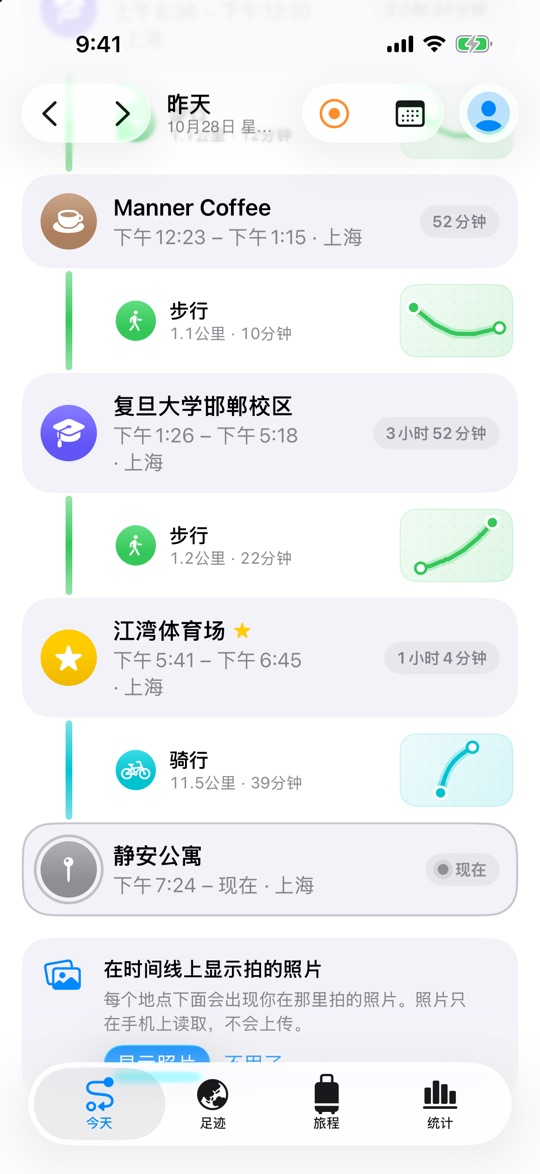
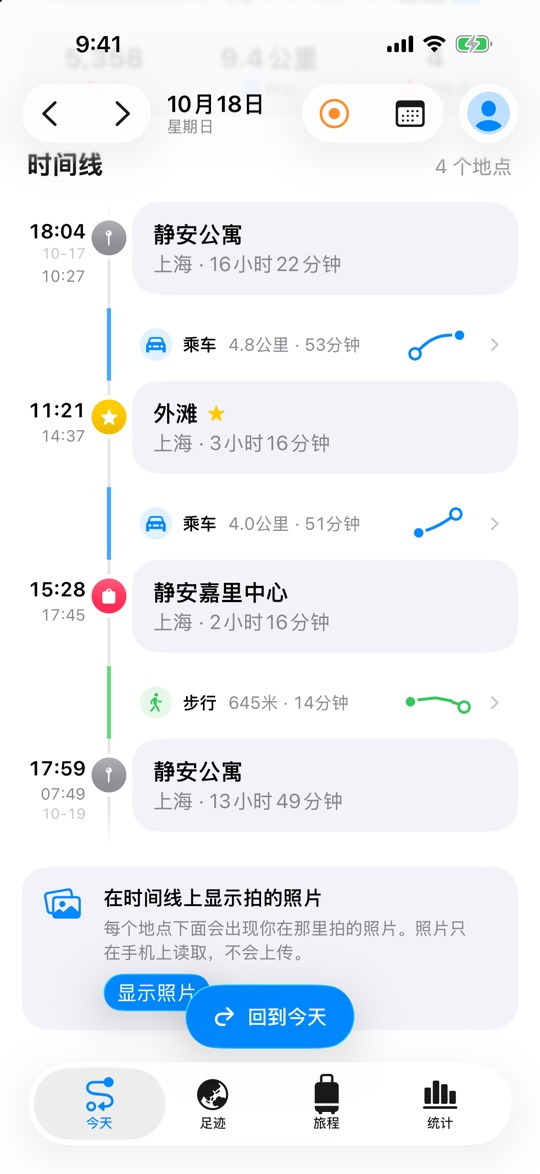
The README on every road, the four passports, the visa wallet and parallel footprints
New screenshots of the timeline, the night map of routes and the visa
wallet, made with specimen visas.

diff --git a/RecordPath/Features/Visas/VisaWalletView.swift b/RecordPath/Features/Visas/VisaWalletView.swift
@@ -186,7 +186,7 @@ struct VisaWalletView: View {
     }
 
     /// How much of each stacked card shows: its header strip.
-    private static let strip: CGFloat = 41
+    private static let strip: CGFloat = 38
 
     private func startScan() {
         if LiveVisaScanner.isAvailable { scanning = true } else { choosingPhoto = true }

diff --git a/README_en.md b/README_en.md
@@ -39,6 +39,8 @@
   <a href="#-trips">Trips</a> ·
   <a href="#-the-world-youve-seen">Places</a> ·
   <a href="#-passport-and-stamps">Passport and stamps</a> ·
+  <a href="#-visa-wallet">Visa wallet</a> ·
+  <a href="#-parallel-footprints">Parallel footprints</a> ·
   <a href="#-places-for-a-lifetime">Places for a lifetime</a> ·
   <a href="#-moments-that-make-you-pause">Moments</a> ·
   <a href="#-apple-watch">Apple Watch</a> ·
@@ -62,7 +64,7 @@
 | **How you got there** | The iPhone's motion coprocessor and your speed tell walking, running, cycling, driving and flying apart, each drawn in its own colour. A subway ride with no signal is filled in from the phone's own motion history and drawn dashed. |
 | **Where you were** | A few minutes in one place becomes a stay, named as the shop, sight, city and country it is. |
 | **Easy on the battery** | Location sleeps while the phone is still. After ten minutes in one place GPS turns off entirely, replaced by a 150 m geofence that wakes it when you leave. |
-| **Timeline** | Each day reads stay → journey → stay, every place with the photos you took there. |
+| **Timeline** | Each day runs down a fine line: the times in the margin, each place a node on it with the photos you took there, and each journey a single line saying how you went, how far and how long, with the route traced beside it. Turn on Past Routes to see the roads you've taken around there on other days, beneath today's. |
 
 **Bring back the past from Photos**: the places your photos and videos were taken fill in where you went before the app existed. New users can do it in the last step of onboarding or from the Trips tab, and the passport opens as the years of stamps land. Run it again any time from Settings; only new places are added. Everything is read on the phone; photos are never uploaded.
 
@@ -86,10 +88,12 @@
 - **Countries and regions**: filter by continent (All · Asia · Europe…), search, and sort by days, most recent or earliest, so a long list never means endless scrolling.
 - **Country pages**: the country outlined (the app draws no borders for mainland China, Hong Kong, Macao or Taiwan), each city you visited a glow of light, then the country's entry stamps and every city's stamp.
 - **Every visit**: grouped as runs of days in one city. A long history shows a year at a time, with a twelve-month bar chart on top; tap a month to jump to it.
+- **Every road**: switch All Places to Routes and every road you've travelled lies on one night map. Streets you take every day glow brighter with each pass; a one-off detour is a faint stroke. Filter by year or by walking, cycling, driving and flying, with the distance and days totted up below. Years of tracks are drawn at three levels of detail, so the map still pans smoothly.
 
 <p align="center">
   <img src="docs/images/places.jpg" width="190" alt="Places">
   <img src="docs/images/country.jpg" width="190" alt="Country page">
+  <img src="docs/images/routes.jpg" width="190" alt="Every road">
 </p>
 
 ---
@@ -121,6 +125,35 @@ The places you've been aren't a number. They're stamps, pressed one by one into 
 | Keepsakes and sets | Gold foil | A line of light runs across it; a set's cities gather into its stamp |
 
 Stamps not yet earned are **blind-embossed**: paper-coloured, in relief, every character readable but uninked.
+
+**Four passports**: burgundy, navy, forest and midnight. Pick one the first time you open it: the cover's leather and gold or silver foil change together with the pages' paper and security print. Change it later in Settings; iCloud keeps every device the same.
+
+---
+
+## 🪪 Visa wallet
+
+<p align="center">
+  <img src="docs/images/visa-wallet.jpg" width="190" alt="Visa wallet">
+  <img src="docs/images/visa-detail.jpg" width="190" alt="A visa">
+</p>
+
+The visas in your passport, stacked like cards in Apple Wallet, each showing how many days it has left.
+
+- **Laid out like the real ones**: the US foil with its Issuing Post Name, Control Number and red visa number over a bridge; the Schengen sticker's VALID FOR and DURATION OF STAY; Japan's bilingual 査証 VISA; and, for Australia and New Zealand, which put no label in the passport, a grant notice. No seals, emblems or security designs are copied, and every card carries a faint Waytrace mark.
+- **Point and it's read**: aim the camera at a visa page and its country, type, entries, length of stay and dates are read live, with a torch if you need it. The two machine-readable lines are corrected field by field and checked against their check digits for the number, birth date and expiry; a few agreeing frames settle it, and the name is checked against the one printed above. Or read it from a photo, or type it in.
+- **Leaf through it like Wallet**: tap a card and it rises to the top while the rest settle into a pile below; tilt the phone and it leans with a slow glint of light. Its back shows the days left as a ring and the details in a grid.
+- **The sums done for you**: the Schengen 90/180 rule worked out from the days you've actually been there; how many times each visa has been used and for how long; a warning when your passport has under six months left. Reminders 90, 30 and 7 days before anything runs out.
+- Visas live only in your own iCloud; reading happens on your iPhone, and nothing from the camera or your photos is saved or uploaded.
+
+---
+
+## 👥 Parallel footprints
+
+See where your footprints and a friend's overlap: **passing within the same hour**, **in the same city on the same day**, or **at the same place at different times**.
+
+- It appears only once you've invited each other and both agreed to share; no contacts, no groups, a friend is whoever accepted your invitation link.
+- Only a summary is shared: the rough area you were in each day (about 20 km) and the square of about 1 km you were in each hour. Nothing within 2 km of home, work or school, no place names, exact coordinates, routes or photos.
+- Shared through iCloud and compared on each phone; stop at any time and the summary is deleted from iCloud.
 
 ---
 
@@ -192,6 +225,9 @@ Waytrace **has no server of its own**. Your routes, places, trips and photos liv
 | Storage and sync | SwiftData with a CloudKit private database; stamps are worked out from stays rather than stored; seen-stamp state and postcards sync through iCloud key-value storage |
 | Background location | `CLLocationUpdate.liveUpdates` + `CLBackgroundActivitySession`; a `CLMonitor` geofence during long stays, with significant-change as a backstop |
 | Places | `MKReverseGeocodingRequest`, `MKLocalPointsOfInterestRequest`; WGS-84 → GCJ-02 for maps in China |
+| Every road | Each track simplified ahead of time at street, city and country detail, cached locally and read incrementally; drawn in layers of `MKMultiPolyline`, so overlaps brighten on their own |
+| Visa reading | VisionKit `DataScannerViewController` live, Vision for photos; ICAO 9303 machine lines corrected per field and verified by check digit, with multi-frame voting; Core Motion drives the cards' sheen |
+| Parallel footprints | CloudKit zone sharing (`CKShare`), summaries uploaded by day only when they change |
 | Motion and health | CoreMotion for how you travel, HealthKit for steps |
 | Apple Watch | watchOS SwiftUI app, WidgetKit complications, `HKWorkoutSession`, WatchConnectivity |
 | Live Activities | ActivityKit: Lock Screen, Dynamic Island, watch Smart Stack |
@@ -213,7 +249,8 @@ RecordPath/
 ├── Features/
 │   ├── Today/          Today, timeline, on this day
 │   ├── World/          Places, country pages, continent filter
-│   ├── Stamps/         Passport, stamp drawing, landing motion, keepsakes
+│   ├── Stamps/         Passport, passport styles, stamp drawing, landing motion, keepsakes
+│   ├── Visas/          Visa wallet, visa cards, live scanning
 │   ├── Trips/          Trips, postcards
 │   ├── Celebration/    Stamping ceremonies, back again, milestones
 │   ├── Stats/          Stats, your year

diff --git a/README.md b/README.md
@@ -39,6 +39,8 @@
   <a href="#-旅程">旅程</a> ·
   <a href="#-你去过的世界">足迹</a> ·
   <a href="#-护照与印章">护照与印章</a> ·
+  <a href="#-签证夹">签证夹</a> ·
+  <a href="#-平行足迹">平行足迹</a> ·
   <a href="#-此生必去">此生必去</a> ·
   <a href="#-那些会让你停一下的时刻">时刻</a> ·
   <a href="#-apple-watch">Apple Watch</a> ·
@@ -62,7 +64,7 @@
 | **认出怎么走的** | 结合 iPhone 的运动协处理器和速度，分辨步行、跑步、骑行、乘车和飞行，用不同颜色画在地图上。地铁里没有信号的那一段，按手机自己记下的运动时间补上，画成虚线。 |
 | **认出在哪里** | 停留几分钟就记一次，并认出是哪家店、哪个景点、哪座城市和国家。 |
 | **省电** | 手机不动时定位休眠；在一个地方待满 10 分钟，GPS 完全关闭，换成一圈 150 米的地理围栏，离开时才重新唤醒。 |
-| **时间线** | 一天按“停留 → 路上 → 停留”排开，每个地点带上那里拍的照片。 |
+| **时间线** | 一天沿着一根细细的时间轴排开：左边是 24 小时制的时刻，每个地点是轴上的一个节点，带上那里拍的照片；路上的一段只占一行，写着怎么走的、多远多久，旁边描出路线。打开“以往路线”，还能在当天的路线下面看到以前在这一带走过的路。 |
 
 **从相册找回过去**：读取照片和视频的拍摄地点，补上 App 出现之前去过的地方。新用户在引导最后一步或“旅程”页就能做，护照当场翻开，这些年的印章一枚枚盖上。之后随时可以在设置里重新导入，只会补上新的地方。所有读取都在手机上完成，照片不会上传。
 
@@ -86,10 +88,12 @@
 - **国家和地区**：按大洲筛选（全部 · 亚洲 · 欧洲……），可以搜索，按停留天数、最近去过、最早去过排序；去过的地方再多，也不用一直往下拉。
 - **国家页**：描出国境的地图（中国大陆、港澳台不由 App 绘制边界），每座去过的城市一团光；下面是这个国家的入境章和每座城市的城市章。
 - **每一次到访**：按“同一城市的连续几天”自动归成一段。历史长的话，一次只看一年，上面一排 12 个月的柱状图，点哪个月就跳到哪个月。
+- **全部路线**：“全部足迹”切到“路线”，所有走过的路铺在一张夜景地图上。常走的街道一遍遍叠亮，只走过一次的路淡淡一笔；可以按年份、按步行 · 骑行 · 乘车 · 飞行筛选，底部算出一共走了多远、多少天。多年的轨迹按缩放分三档精度绘制，拖动依然顺滑。
 
 <p align="center">
   <img src="docs/images/places.jpg" width="190" alt="足迹">
   <img src="docs/images/country.jpg" width="190" alt="国家页">
+  <img src="docs/images/routes.jpg" width="190" alt="全部路线">
 </p>
 
 ---
@@ -121,6 +125,35 @@
 | 纪念章、套章 | 烫金 | 落下后一道光从章面扫过；套章由几座城市的章聚拢而成 |
 
 还没盖上的章以**压印**显示：和纸一个颜色，有凹凸的光影，看得清每一个字，但没有墨。
+
+**四种护照**：酒红、藏青、墨绿、夜黑。第一次翻开时挑一本，封面的皮色、烫金或银色徽标，和内页的纸色、防伪底纹一起换；以后在设置里更换，通过 iCloud 在各设备上保持一致。
+
+---
+
+## 🪪 签证夹
+
+<p align="center">
+  <img src="docs/images/visa-wallet.jpg" width="190" alt="签证夹">
+  <img src="docs/images/visa-detail.jpg" width="190" alt="签证详情">
+</p>
+
+护照上的签证，像 Apple 钱包里的卡一样叠在一起，每张都写着还剩多少天。
+
+- **照着真签证排版**：美签有 Issuing Post Name、Control Number 和红色签证号，背景一座桥；申根是欧盟统一贴签的 VALID FOR、DURATION OF STAY；日本是“査証 VISA”的日英双语；澳大利亚和新西兰不贴签，就做成一封批准通知。不复制国徽、印章和防伪图案，卡面带一枚淡淡的漫迹水印。
+- **对准就读出来**：用相机对准签证页，实时读出国家、类型、入境次数、停留天数和有效期，可以开手电筒。签证底部两行机读码按字段纠错，号码、生日、到期日各自用校验位核对，连续几帧一致才算读好；姓名再和正文印的名字互相印证。也可以从照片识别，或者手动填写。
+- **像 Wallet 一样翻看**：点一张，它升到最上面，其余的收成一摞落到底部；倾斜手机，卡面会随之微微转动，一道光从上面滑过。背面是剩余天数的圆环和一格格信息。
+- **算得清楚**：申根的 90/180 天，按你真实去过的日子算出还能待几天；每张签证用过几次入境、一共几天；护照不足 6 个月时提醒你。到期前 90 天、30 天、7 天各提醒一次。
+- 签证只存在你自己的 iCloud 里；识别在手机上完成，画面和照片不会保存或上传。
+
+---
+
+## 👥 平行足迹
+
+和朋友互相看见彼此的足迹在哪里重叠：**同一个小时擦肩而过**、**同一天在同一个城市**，或者**不同时间去过同一个地方**。
+
+- 只有互相邀请、双方都同意共享之后才会出现；没有通讯录，也没有群组，朋友就是接受了你邀请链接的人。
+- 共享的只是一份摘要：每天到过的大致区域（约 20 公里）和每小时所在的约 1 公里方格。家、公司、学校附近 2 公里内的一切、地点名称、具体坐标、路线和照片都不共享。
+- 通过 iCloud 共享，比对在各自的手机上完成；随时可以停止，摘要会从 iCloud 删除。
 
 ---
 
@@ -192,6 +225,9 @@
 | 存储与同步 | SwiftData + CloudKit 私有数据库；印章由停留记录推算，不额外存储；“看过的盖章动画”和明信片通过 iCloud 键值存储同步 |
 | 后台定位 | `CLLocationUpdate.liveUpdates` + `CLBackgroundActivitySession`；久停时改用 `CLMonitor` 地理围栏，显著位置变化兜底 |
 | 地点 | `MKReverseGeocodingRequest`、`MKLocalPointsOfInterestRequest`；国内地图 WGS-84 → GCJ-02 转换 |
+| 全部路线 | 每段轨迹按街道、城市、国家三档精度预先简化，缓存在本地，只增量读取新轨迹；`MKMultiPolyline` 分层绘制，重叠处自然变亮 |
+| 签证识别 | VisionKit `DataScannerViewController` 实时识别，Vision 文字识别读照片；ICAO 9303 机读码按字段纠错、校验位验证，多帧投票；Core Motion 驱动卡面光泽 |
+| 平行足迹 | CloudKit 区域共享（`CKShare`），摘要按天去重上传 |
 | 运动与健康 | CoreMotion 识别出行方式，HealthKit 步数 |
 | Apple Watch | watchOS SwiftUI App、WidgetKit 复杂功能、`HKWorkoutSession`、WatchConnectivity |
 | 实时活动 | ActivityKit：锁屏、灵动岛、手表智能叠放 |
@@ -213,7 +249,8 @@ RecordPath/
 ├── Features/
 │   ├── Today/          今天、时间线、那年今日
 │   ├── World/          足迹、国家页、大洲筛选
-│   ├── Stamps/         护照、印章绘制、盖章动效、纪念章
+│   ├── Stamps/         护照、护照样式、印章绘制、盖章动效、纪念章
+│   ├── Visas/          签证夹、签证卡面、实时扫描
 │   ├── Trips/          旅程、明信片
 │   ├── Celebration/    盖章仪式、重逢、里程碑
 │   ├── Stats/          统计、年度足迹
